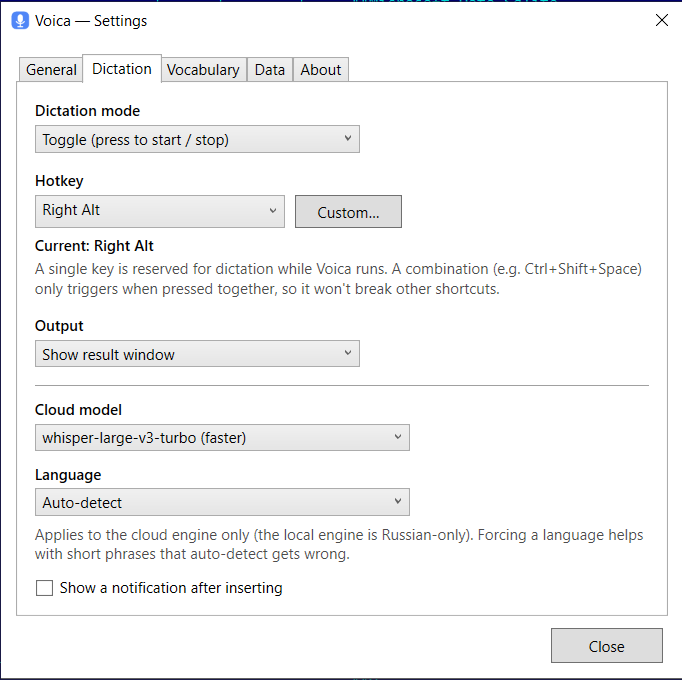
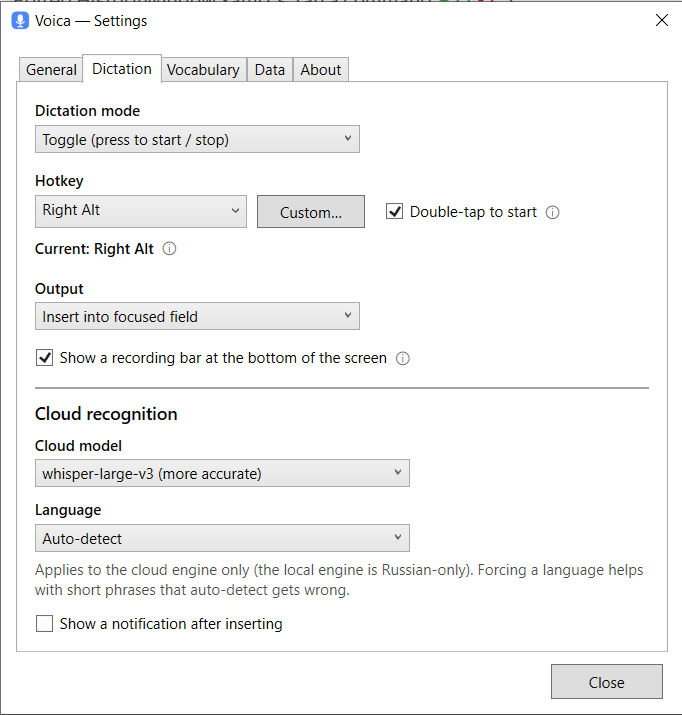
Release 0.6.0
Version bump, changelog, release notes, README (en/ru) and refreshed
screenshots (Dictation tab, the new dictation bar). Four rows in the parity
matrix flip to ✅ (0.6.0): the dictation bar, double-tap to start, multi-select
+ batch delete in History, and the vocabulary/AI guide.

Changed region(s): [[0.0, 0.0, 0.9545, 0.8956], [0.0, 0.8956, 1.0, 1.0], [0.9545, 0.0, 0.9853, 0.0309]]

diff --git a/README.md b/README.md
@@ -37,7 +37,12 @@ back the work on [Boosty](https://boosty.to/voica): the road to 1.0 for both the
 
 - **Global hotkey dictation** — Push‑to‑talk (hold) or Toggle (press to start/stop). Default:
   **Toggle + Right Alt**. Pick a preset key (Right/Left Alt, CapsLock, ScrollLock, Pause) or record
-  a **custom combination** (e.g. `Ctrl+Shift+Space`).
+  a **custom combination** (e.g. `Ctrl+Shift+Space`). In Toggle mode a **double tap** starts the
+  recording, so a stray press can't.
+- **Dictation bar** — a floating capsule at the bottom of the screen shows the live level while you
+  speak, with **×** to cancel (the audio is discarded) and **✓** to stop and transcribe. It never
+  takes focus, so the text still lands in the field you were typing in. Can be turned off, and then
+  the tray icon indicates the state instead.
 - **Punctuation via Groq Whisper** — pick the model (`whisper-large-v3-turbo` or `whisper-large-v3`)
   and the language (auto‑detect, great for mixed Russian/English, or force Russian/English).
 - **Local offline engine** (optional) — recognition fully on your PC via **GigaAM v3** (Russian,
@@ -45,8 +50,8 @@ back the work on [Boosty](https://boosty.to/voica): the road to 1.0 for both the
   Voica automatically falls back to the local engine when the model is installed.
 - **Auto‑insert** into the focused field (synthesized Ctrl+V), and the text is **always** copied to
   the clipboard as a fallback. Or show an editable **result window**.
-- **History** (SQLite) — browse, re‑copy, play the audio, delete, and **export** the whole history
-  to Markdown, CSV or JSON.
+- **History** (SQLite) — browse, re‑copy, play the audio, delete (one or a whole multi‑selection),
+  and **export** the entire history to Markdown, CSV or JSON.
 - **Audio retention** — keep recordings for N days (default 30; 0 = keep forever), or don't store
   audio at all.
 - **Vocabulary** — a hint list of terms/names Whisper often mangles, plus an optional **AI pass**
@@ -72,6 +77,10 @@ back the work on [Boosty](https://boosty.to/voica): the road to 1.0 for both the
 ![Settings — Data](docs/settings-data.png)
 
 ![Settings — About](docs/settings-about.png)
+
+**Dictation bar** — while recording (level wave, cancel, stop):
+
+![Dictation bar](docs/hud.png)
 
 **History** — browse, re‑copy, play, delete, export:
 
@@ -125,12 +134,15 @@ On first launch (with no key set) the **Settings** window opens. Paste your Groq
 
 ## Usage
 
-- **Dictate:** press **Right Alt** (default), speak, press **Right Alt** again to stop (Toggle
+- **Dictate:** double‑tap **Right Alt** (default), speak, press **Right Alt** once to stop (Toggle
   mode). In PTT mode, hold to talk and release to send.
+- While recording, the bar at the bottom of the screen shows the level: **×** cancels (the
+  recording is discarded), **✓** stops and transcribes.
 - The recognized text is inserted into the focused field and copied to the clipboard.
 - Right‑click the tray icon for **Settings**, **History**, **Check for Updates**, and **About**.
 
-The tray icon reflects state: idle (blue), recording (pulsing red), transcribing (amber).
+With the dictation bar on (the default), the tray icon stays neutral. Turn it off and the icon
+reflects state instead: idle (blue), recording (pulsing red), transcribing (amber).
 
 ## Settings
 
@@ -138,6 +150,8 @@ The tray icon reflects state: idle (blue), recording (pulsing red), transcribing
 |---|---|
 | Dictation mode | PTT (hold) or Toggle |
 | Hotkey | Preset single key or a custom combination |
+| Double tap to start | Toggle mode only; on by default (0.35 s window) |
+| Show a recording bar | The bottom‑of‑screen capsule; on by default |
 | Output | Insert into field, or show a result window |
 | Store audio recordings | On by default |
 | Show a notification after inserting | The tray balloon; can be turned off |

diff --git a/CHANGELOG.md b/CHANGELOG.md
@@ -4,6 +4,36 @@ All notable changes to this project are documented here. The format is based on
 [Keep a Changelog](https://keepachangelog.com/en/1.1.0/), and this project adheres to
 [Semantic Versioning](https://semver.org/spec/v2.0.0.html).
 
+## [0.6.0] - 2026-08-12
+
+### Added
+- **Dictation bar** (spec §4.2, on by default): a floating capsule at the bottom center of the
+  screen, above other windows, that never takes focus. While recording it shows a live level wave
+  with **×** (cancel — the audio is discarded, nothing is transcribed) and **✓** (stop and
+  transcribe); during transcription the wave and buttons give way to a spinner and "Transcribing…".
+  Cancelling a dictation is a new path — previously a started recording could only be sent.
+  Layout, colors and metrics follow the macOS HUD. Toggle: Settings → Dictation.
+  On a multi-monitor setup the bar appears on the screen showing the focused window — where the
+  text is going to land — and honors that monitor's scaling.
+- **Exactly one indicator at a time** (spec §4.2): while the bar is on, the tray icon stays
+  neutral in every state. Turn the bar off and the old icon behavior returns (pulsing while
+  recording, a static accent while transcribing).
+- **Double tap to start** in Toggle mode (spec §4, on by default, 0.35 s window): a stray press no
+  longer starts a dictation. Stopping is always a single press; push-to-talk and the tray's
+  "Dictate" item are unaffected. Can be turned off in Settings → Dictation.
+- **Multi-select and batch delete in History** (spec §7): Ctrl/Shift/Ctrl+A, the Delete key and
+  the context menu; the whole selection (with its audio) is removed in one transaction.
+- **"Support the project"** link (Boosty) in Settings → About, plus a GitHub funding entry.
+- **Vocabulary and AI-correction user guide** in Russian: [docs/terms-ai.ru.md](docs/terms-ai.ru.md),
+  linked from the README.
+
+### Changed
+- Settings → Dictation now follows the macOS layout: the long explanations moved into ⓘ tooltips,
+  "Double-tap to start" sits on the hotkey row where it belongs, and the model/language controls
+  got their own "Cloud recognition" heading. The window is noticeably shorter.
+- History: **Play** becomes **Stop** while audio is playing and turns back when playback ends, so
+  there is a visible way to stop it (parity with macOS).
+
 ## [0.5.0] - 2026-07-30
 
 ### Added

diff --git a/.github/release-notes/v0.6.0.md b/.github/release-notes/v0.6.0.md
@@ -1,0 +1,40 @@
+**Voica v0.6.0 — the dictation bar, safer starts, batch cleanup in History.**
+
+### What's new
+
+- **A dictation bar at the bottom of the screen.** A floating capsule shows a live level wave
+  while you speak, with **×** to cancel (the recording is thrown away — nothing is sent or
+  transcribed) and **✓** to stop and transcribe. While the text is being recognized the wave gives
+  way to a spinner and "Transcribing…". It floats above other windows and never takes focus, so
+  your text still lands in the field you were typing in. With several monitors it shows up on the
+  one you're typing on, not always the main one. On by default —
+  Settings → Dictation → *Show the recording bar at the bottom of the screen*.
+- **Cancelling a dictation is new.** Until now, once a recording started the only way out was to
+  send it.
+- **Exactly one indicator.** With the bar on, the tray icon stays neutral in every state. Turn the
+  bar off and the icon takes over again (pulsing while recording, a static accent while
+  transcribing).
+- **Double tap to start** (Toggle mode, on by default): recording begins only on two quick presses
+  within 0.35 s, so a stray Right Alt no longer starts a dictation. Stopping is still a single
+  press; push-to-talk and the tray's "Dictate" item are unaffected, and it can be turned off.
+- **Multi-select and batch delete in History** — Ctrl/Shift/Ctrl+A, the Delete key, or the context
+  menu; the selection and its audio go in one transaction.
+- **"Support the project"** link in Settings → About, and a Russian guide to the vocabulary and AI
+  term correction.
+
+Also: Settings → Dictation is tidier — the long explanations now live in ⓘ tooltips — and in
+History the **Play** button becomes **Stop** while audio is playing.
+
+### Install
+
+Two downloads to choose from (Windows 10 1809+ / x64):
+
+| File | Size | Needs |
+|---|---|---|
+| **`Voica.exe`** | ~80 MB | nothing — fully self-contained |
+| **`Voica-fx.exe`** | ~37 MB | [.NET 8 Desktop Runtime](https://dotnet.microsoft.com/download/dotnet/8.0) installed once |
+
+Not code-signed yet, so SmartScreen may warn → **More info → Run anyway**
+([why, and how to verify](https://github.com/Inhum/voica-win#why-does-windows-warn-about-this-app)).
+
+Full changelog: https://github.com/Inhum/voica-win/blob/main/CHANGELOG.md
